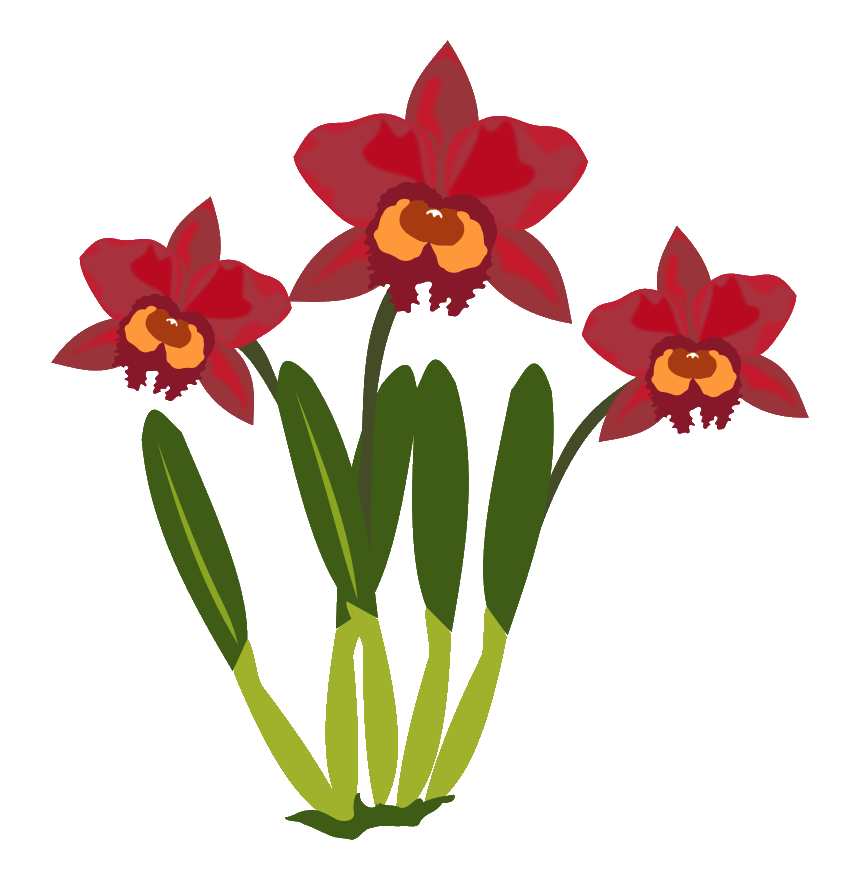
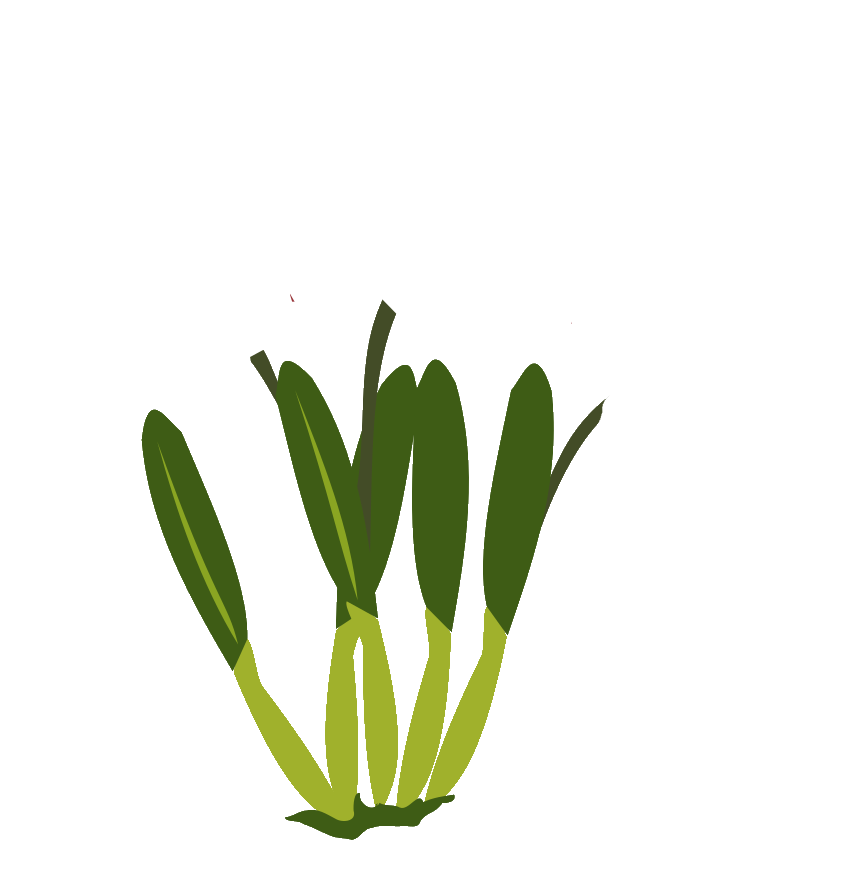
(a) correcting growth of plant from the bottom and (b) adding flowering on growth functionality.

Changed region(s): [[0.0605, 0.0307, 0.9372, 0.5216]]

diff --git a/plant.js b/plant.js
@@ -2,38 +2,60 @@ class Plant{
     age = 0;
     name = '';
     growthFactor = 0;
-    image='';
+    image=null;
+    flowerImage=null
     rect={
       x:0,y:0,
       w:0,h:0
     };
-    constructor(name,age,growthFactor,imgPath,rect){
+    floweringAge=0
+    constructor(name,age,growthFactor,imgPath,rect,floweringAge){
       this.rect.x=rect[0]
       this.rect.y=rect[1]
       this.rect.w=rect[2]
       this.rect.h=rect[3]
-
+      this.floweringAge=floweringAge ||0
       this.name=name
       this.age=age
       this.growthFactor=growthFactor
 
       this.image=new Image();
       this.image.src=imgPath;
+      this.flowerImage=new Image();
+      
+      this.flowerImage.src=imgPath.replace('.png','-flowers.png')
+      
       this.image.onload=()=>{
         let canvas = document.querySelector('#plant-canvas');
         let ctx = canvas.getContext('2d');
         ctx.drawImage(this.image,this.rect.x,this.rect.y,this.rect.w,this.rect.h*this.age);
-       
+        
       }
+      this.init()
 
     }
-     grow(){
-       this.age+=this.growthFactor 
-       let canvas = document.querySelector('#plant-canvas');
-       let ctx = canvas.getContext('2d');
-      ctx.clearRect(this.rect.x,this.rect.y,this.rect.w,this.rect.h*this.age);
-      ctx.drawImage(this.image,this.rect.x,this.rect.y,this.rect.w,this.rect.h*this.age);
+    init(){
+      let btn=document.createElement('button')
+      btn.textContent=this.name.toUpperCase()
+      document.querySelector('.buttons').appendChild(btn)
+      btn.addEventListener('click',()=>{
+        this.grow()
 
+      })
+    }
+     grow(){
+       this.age += this.growthFactor 
+       let canvas = document.querySelector('#plant-canvas');
+       let ctx = canvas.getContext('2d')
+      let startY=(this.rect.h*this.age)
+      ctx.clearRect(this.rect.x,this.rect.y-startY,this.rect.w,this.rect.h*this.age);
+      console.log(this.rect.x,this.rect.y-startY,this.rect.w,this.rect.h*this.age);
+
+      ctx.drawImage(this.image,this.rect.x,this.rect.y-startY,this.rect.w,startY);
+      if(this.age*this.growthFactor>10){
+        ctx.drawImage(this.flowerImage,this.rect.x,this.rect.y-startY,this.rect.w,startY)
+      }
+      
     }
 
 }

diff --git a/index.html b/index.html
@@ -3,18 +3,25 @@
 <head>
     <meta charset="UTF-8">
     <meta name="viewport" content="width=device-width, initial-scale=1.0">
+    <link rel="icon" href="./images/favicon-plant.png">
     <title>Document</title>
     <style>
         #plant-canvas{
             width: 700px;
             height: 550px;
             background-color: skyblue;
+
         }
+        
     </style>
 </head>
 <body>
     <canvas id="plant-canvas"></canvas>
+    <div class="buttons">
+
+    </div>
     <script src="plant.js"></script>
     <script src="app.js"></script>
+    
 </body>
 </html>

diff --git a/app.js b/app.js
@@ -1,6 +1,6 @@
-const plant1=new Plant('rose',0,2,'./images/rose.jpg',[0,60,100,15]);
-const plant2=new Plant('orchid',0,1,'./images/orchid.png',[100,105,100,15]);
-const plant3=new Plant('tulsi',0,3,'./images/tulsi.webp',[200,30,100,15]);
+const plant1=new Plant('rose',0,2,'./images/cartoon-rose.png',[0,145,100,15]);
+const plant2=new Plant('orchid',0,1,'./images/cartoon-orchid.png',[105,140,100,15]);
+const plant3=new Plant('tulsi',0,3,'./images/cartoon-tulsi.png',[200,145,100,15]);
 
 
 // plant1.grow();
